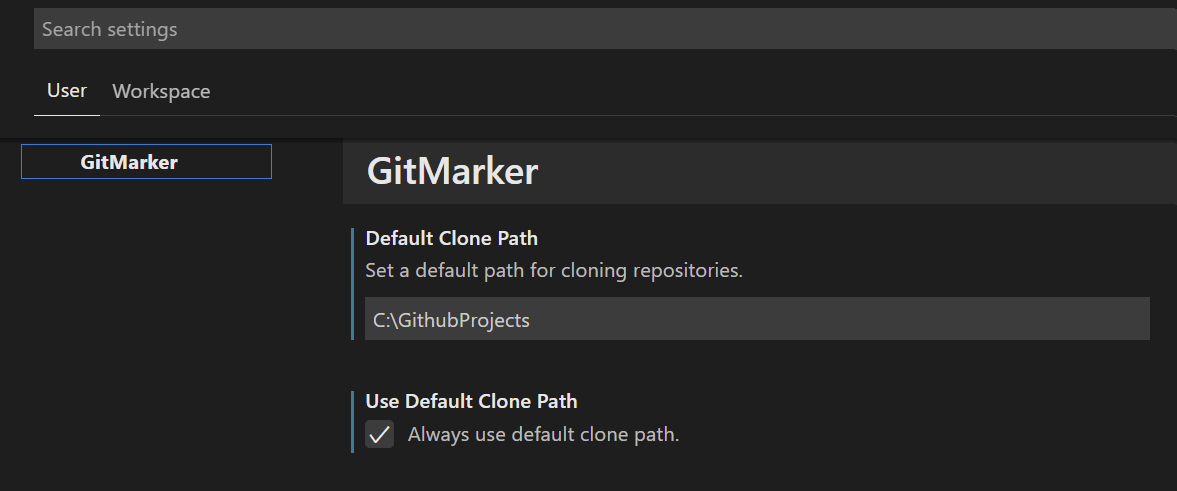
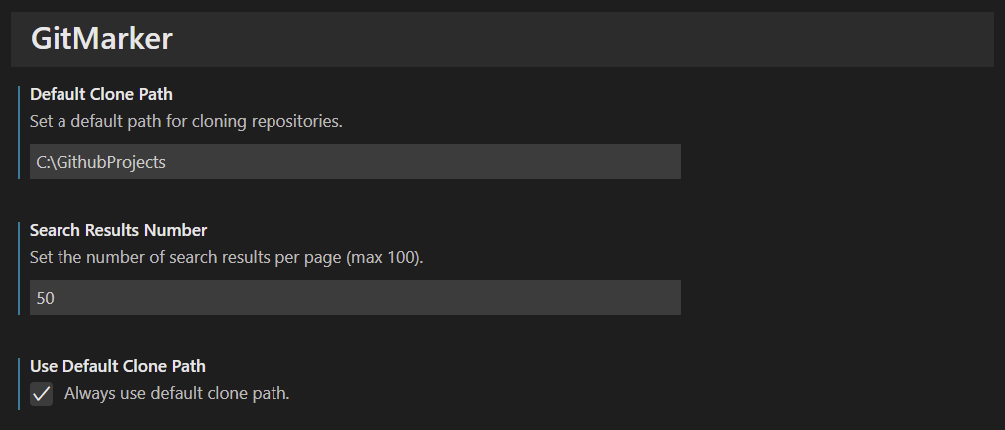
Added configuration.searchResultsNumber
CHANGELOG

diff --git a/src/commands/search-repositories.ts b/src/commands/search-repositories.ts
@@ -12,6 +12,7 @@ import { GitHubApiClient } from '../services/github-api-client';
 import { Category } from '../models/category';
 import { Command } from './base/command';
 import { PersonalAccessTokenManager } from '../services/pat-manager';
+import { GITMARKER_CONFIG, SEARCH_RESULTS_NUMBER } from '../consts/application';
 
 @injectable()
 export class SearchRepositories implements Command {
@@ -38,16 +39,24 @@ export class SearchRepositories implements Command {
 
 			if(typeof searchTerm !== 'undefined' && searchTerm) {
 				searchTerm = searchTerm.toLowerCase();
+				this.setStatusBarMessage(`Searching for ${searchTerm}...`!);
+
+				const config = vscode.workspace
+					.getConfiguration(GITMARKER_CONFIG);
+	
+				const searchResultsPerPage = config
+					.get(SEARCH_RESULTS_NUMBER);
+
 				const gitHubRepos = await new GitHubApiClient(accessToken)
-					.search(searchTerm);
+					.search(searchTerm, searchResultsPerPage as number);
 
 				if(gitHubRepos.length === 0) {
+					this.setStatusBarMessage(`${LAST_SEARCHED_TERM_MSG} "${searchTerm}".`);
 					vscode.window.showInformationMessage(`${NO_REPOS_FOUND_MSG} ${searchTerm}.`);
 					return;
 				}				
 
-				this.setStatusBar(searchTerm!);
-
+				this.setStatusBarMessage(`${LAST_SEARCHED_TERM_MSG} "${searchTerm}".`!);
 				const repoDetails = gitHubRepos.map(repoInfo =>  {
 					const label = repoInfo.stargazersCount > 0 
 					? `${repoInfo.name} ⭐${repoInfo.stargazersCount}` 
@@ -68,8 +77,8 @@ export class SearchRepositories implements Command {
 					canPickMany: true,
 					title: `${gitHubRepos.length} items found for ${searchTerm}`,
 				})
-				.then((result) => {                 
-					if(result) {
+				.then((result) => {        					
+					if(result) {						
 						let resultIds = result.map(a => a.id);
 						const selectedRepos = gitHubRepos
 							.filter(repo => resultIds.includes(repo.id));
@@ -91,7 +100,7 @@ export class SearchRepositories implements Command {
 						});
 					}
 				});			
-			}
+			}			
 		}
 	}
 
@@ -113,7 +122,7 @@ export class SearchRepositories implements Command {
 		});
 	}
 
-	setStatusBar(term: string) {
-		vscode.window.setStatusBarMessage(`${LAST_SEARCHED_TERM_MSG} "${term}".`);
+	setStatusBarMessage(message: string) {
+		vscode.window.setStatusBarMessage(message);
 	}	
 }

diff --git a/src/services/bookmark-manager.ts b/src/services/bookmark-manager.ts
@@ -8,7 +8,7 @@ import { Category } from '../models/category';
 import { CategoriesRepositories } from '../models/categories-repositories';
 import { GithubRepository } from '../models/github-repository';
 import { TreeDataItem } from '../models/tree-data-item';
-import { LocalStorageManager } from './local-storage-manager';
+import { DataStorageManager } from './data-storage-manager';
 import { TreeViewManager } from './tree-view-manager';
 
 export default class BookmarkManager {
@@ -17,10 +17,10 @@ export default class BookmarkManager {
 
 	static init(): void {
 		var treeViewMngr = container
-			.get(TYPES.treeViewManager) as TreeViewManager;
-		var localStorageMngr = container
-			.get(TYPES.localStorageManager) as LocalStorageManager;
-		BookmarkManager._instance = new BookmarkManager(treeViewMngr, localStorageMngr);
+			.get<TreeViewManager>(TYPES.treeViewManager);
+		var dataStorageManager = container
+			.get<DataStorageManager>(TYPES.dataStorageManager);
+		BookmarkManager._instance = new BookmarkManager(treeViewMngr, dataStorageManager);
 	}
 	
 	static get instance(): BookmarkManager {
@@ -30,8 +30,8 @@ export default class BookmarkManager {
 	constructor(
 		@inject(TYPES.treeViewManager) 
 		private treeViewManager: TreeViewManager,
-		@inject(TYPES.localStorageManager) 
-		private localStorageManager: LocalStorageManager
+		@inject(TYPES.dataStorageManager) 
+		private dataStorageManager: DataStorageManager
 	) {			
 		this.loadStoredData();
 	}
@@ -94,7 +94,7 @@ export default class BookmarkManager {
 	}
 
 	loadStoredData() {
-		const storedCategories = this.localStorageManager
+		const storedCategories = this.dataStorageManager
 			.getValue<CategoriesRepositories>(FAVORITE_REPOS_KEY);
 
 		this.categoryRepositories = storedCategories 
@@ -168,7 +168,7 @@ export default class BookmarkManager {
 
 	storeAndRefreshProvider(){
 		// Store updated values
-		this.localStorageManager
+		this.dataStorageManager
 			.setValue<CategoriesRepositories>(FAVORITE_REPOS_KEY, 
 				this.categoryRepositories);
 

diff --git a/src/commands/export-bookmarks.ts b/src/commands/export-bookmarks.ts
@@ -5,7 +5,7 @@ import { inject, injectable} from 'inversify';
 import { FAVORITE_REPOS_KEY } from '../consts/application';
 import { ERROR_EXPORTING_MSG } from '../consts/messages';
 import { saveDialogOptions } from '../utils/dialog-options';
-import { LocalStorageManager } from '../services/local-storage-manager';
+import { DataStorageManager } from '../services/data-storage-manager';
 import { EXPORT_BOOKMARKS } from '../consts/commands';
 import { Category } from '../models/category';
 import { Command } from './base/command';
@@ -15,8 +15,8 @@ export class ExportBookmarks implements Command {
 
 	constructor
 	(
-		@inject(TYPES.localStorageManager) 
-		private localStorageManager: LocalStorageManager
+		@inject(TYPES.dataStorageManager) 
+		private dataStorageManager: DataStorageManager
 	) {}
 	
 	get id() {
@@ -27,7 +27,7 @@ export class ExportBookmarks implements Command {
 		await vscode.window.showSaveDialog(saveDialogOptions)
 		.then(file => {
 			if(file) {
-				const storedCategories = this.localStorageManager
+				const storedCategories = this.dataStorageManager
 					.getValue<Category[]>(FAVORITE_REPOS_KEY);
 
 				const serializedObj = JSON

diff --git a/src/inversify.config.ts b/src/inversify.config.ts
@@ -17,7 +17,7 @@ import { HowToCreatePat } from './commands/how-to-create-pat';
 import { Command } from './commands/base/command';
 import { TreeViewManager } from './services/tree-view-manager';
 import { PersonalAccessTokenManager } from './services/pat-manager';
-import { LocalStorageManager } from './services/local-storage-manager';
+import { DataStorageManager } from './services/data-storage-manager';
 import { DateTimeHelper } from './utils/datetime-helper';
 
 const container = new Container();
@@ -38,7 +38,7 @@ container.bind<Command>(TYPES.command).to(HowToCreatePat);
 container.bind<CommandsManager>(TYPES.commandManager).to(CommandsManager);
 container.bind<TreeViewManager>(TYPES.treeViewManager).to(TreeViewManager);
 container.bind<PersonalAccessTokenManager>(TYPES.accessTokenManager).to(PersonalAccessTokenManager);
-container.bind<LocalStorageManager>(TYPES.localStorageManager).to(LocalStorageManager);
+container.bind<DataStorageManager>(TYPES.dataStorageManager).to(DataStorageManager);
 container.bind<DateTimeHelper>(TYPES.dateTimeHelper).to(DateTimeHelper);
 
 export default container;

diff --git a/src/commands/clear-all.ts b/src/commands/clear-all.ts
@@ -5,7 +5,7 @@ import { inject, injectable} from 'inversify';
 import { CLEAR_ALL } from '../consts/commands';
 import { CLEAR_ALL_MSG, NO_MSG, YES_MSG } from '../consts/messages';
 import { Command } from './base/command';
-import { LocalStorageManager } from '../services/local-storage-manager';
+import { DataStorageManager } from '../services/data-storage-manager';
 import { FAVORITE_REPOS_KEY } from '../consts/application';
 
 @injectable()
@@ -13,8 +13,8 @@ export class ClearAll implements Command {
 
 	constructor
 	(
-		@inject(TYPES.localStorageManager) 
-		private localStorageManager: LocalStorageManager
+		@inject(TYPES.dataStorageManager) 
+		private dataStorageManager: DataStorageManager
 	) {}
 
 	get id() {
@@ -29,7 +29,7 @@ export class ClearAll implements Command {
 			)
 			.then((answer) => {
 				if (answer === 'Yes') {
-					this.localStorageManager
+					this.dataStorageManager
 						.clearValues(FAVORITE_REPOS_KEY);
 						
 					BookmarkManager.instance

diff --git a/src/services/github-api-client.ts b/src/services/github-api-client.ts
@@ -23,14 +23,14 @@ export class GitHubApiClient {
 
 		 this.accessToken = accessToken;
 		 this.dateTimeHelper = container
-			.get(TYPES.dateTimeHelper) as DateTimeHelper;
+			.get<DateTimeHelper>(TYPES.dateTimeHelper);
 	}
 
-	async search(term: string) {
+	async search(term: string, perPageRecords: number) {
 		let repos: GithubRepository[] = [];
 
 		if(this.accessToken) {
-			const url = `/search/repositories?q=${term}&access_token=${this.accessToken}`;
+			const url = `/search/repositories?q=${term}+is:public&per_page=${perPageRecords};&access_token=${this.accessToken}`;
 
 			try {
 				await this.apiClient.get(url)

diff --git a/src/services/data-storage-manager.ts b/src/services/data-storage-manager.ts
@@ -3,7 +3,7 @@ import { injectable } from "inversify";
 import { Memento } from "vscode";
 
 @injectable()
-export class LocalStorageManager {
+export class DataStorageManager {
 	storage: Memento;
 
 	constructor() {
@@ -15,11 +15,11 @@ export class LocalStorageManager {
 		return this.storage.get<T>(key);
 	}
 
-	public setValue<T>(key : string, value : T | undefined) {
+	public setValue<T>(key : string, value : T) {
 		this.storage.update(key, value);
 	}
 
 	public clearValues(key : string) {
-		this.storage.update(key, null);
+		this.storage.update(key, undefined);
 	}
 }

diff --git a/src/commands/base/types.ts b/src/commands/base/types.ts
@@ -1,7 +1,7 @@
 const TYPES = {
    command: Symbol("Command"),
    commandManager: Symbol("CommandManager"),
-   localStorageManager: Symbol("LocalStorageManager"),
+   dataStorageManager: Symbol("DataStorageManager"),
    treeViewManager: Symbol("TreeViewManager"),
    accessTokenManager: Symbol("AccessTokenManager"),
    dateTimeHelper: Symbol("DateTimeHelper")

diff --git a/src/consts/application.ts b/src/consts/application.ts
@@ -22,5 +22,6 @@ export const TERMINAL_KEY = 'GitMarker';
 
 // Config
 export const GITMARKER_CONFIG = 'gitmarker';
+export const SEARCH_RESULTS_NUMBER = 'searchResultsNumber';
 export const USE_DEFAULT_PATH_CFG = 'useDefaultClonePath';
 export const DEFAULT_PATH_CFG = 'defaultClonePath';

diff --git a/CHANGELOG.md b/CHANGELOG.md
@@ -47,3 +47,10 @@ and this project adheres to [Semantic Versioning](https://semver.org/spec/v2.0.0
 - Exchanged centralized search icon.
 
 --------------------------------------------------------------------------------------------------------
+
+## [1.2.0] - 2021-09-02
+### Added
+
+- Settings for defining the number of search results per page when searching repositories
+
+--------------------------------------------------------------------------------------------------------
